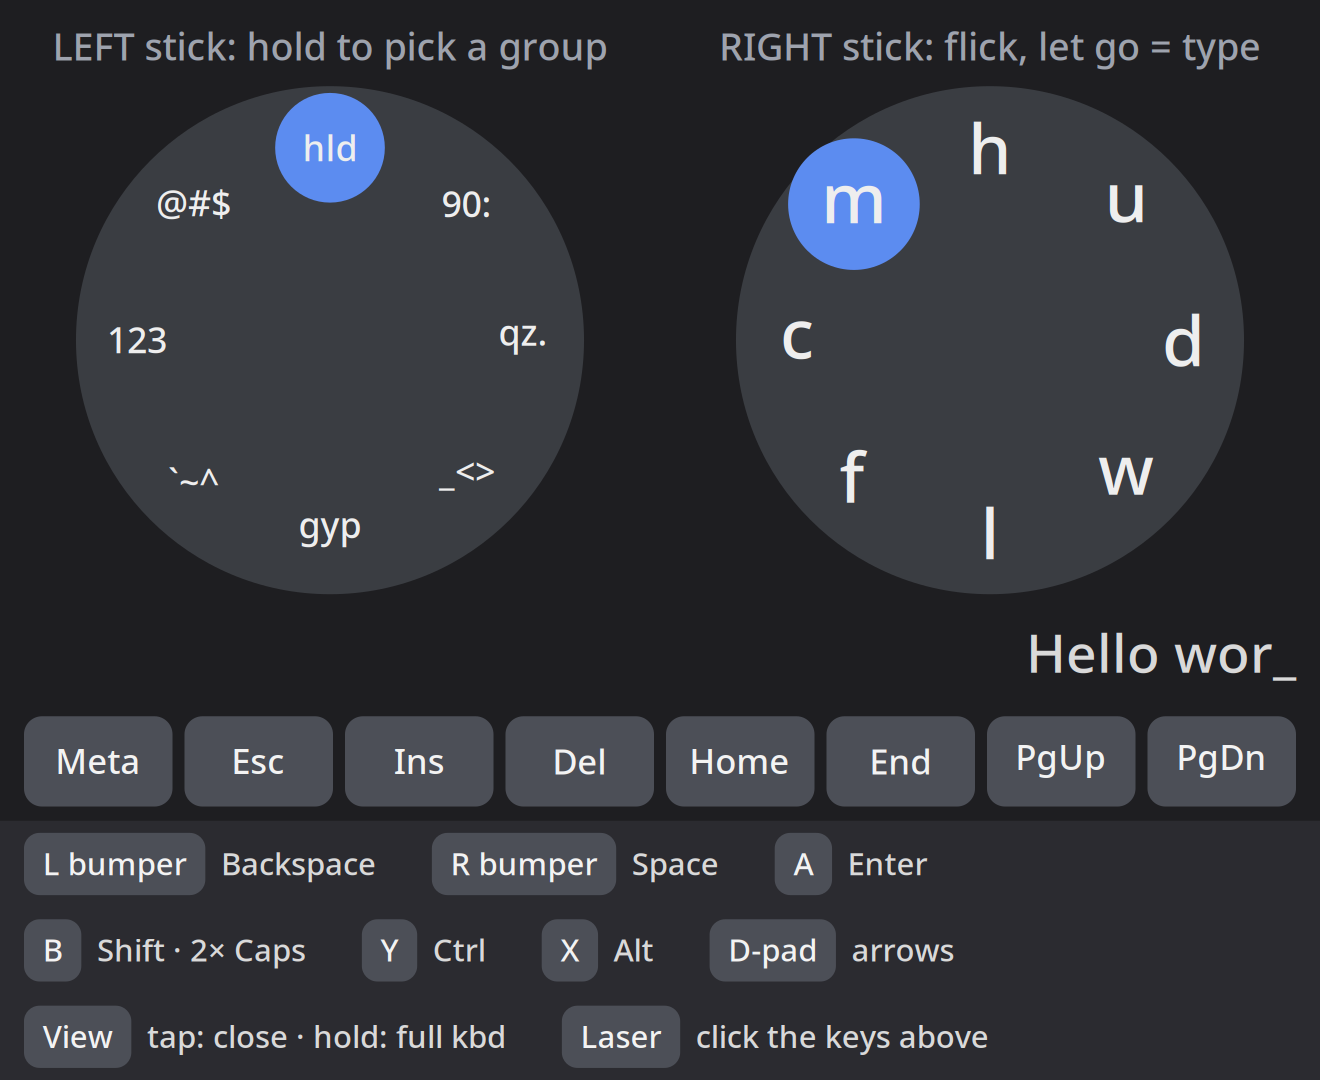
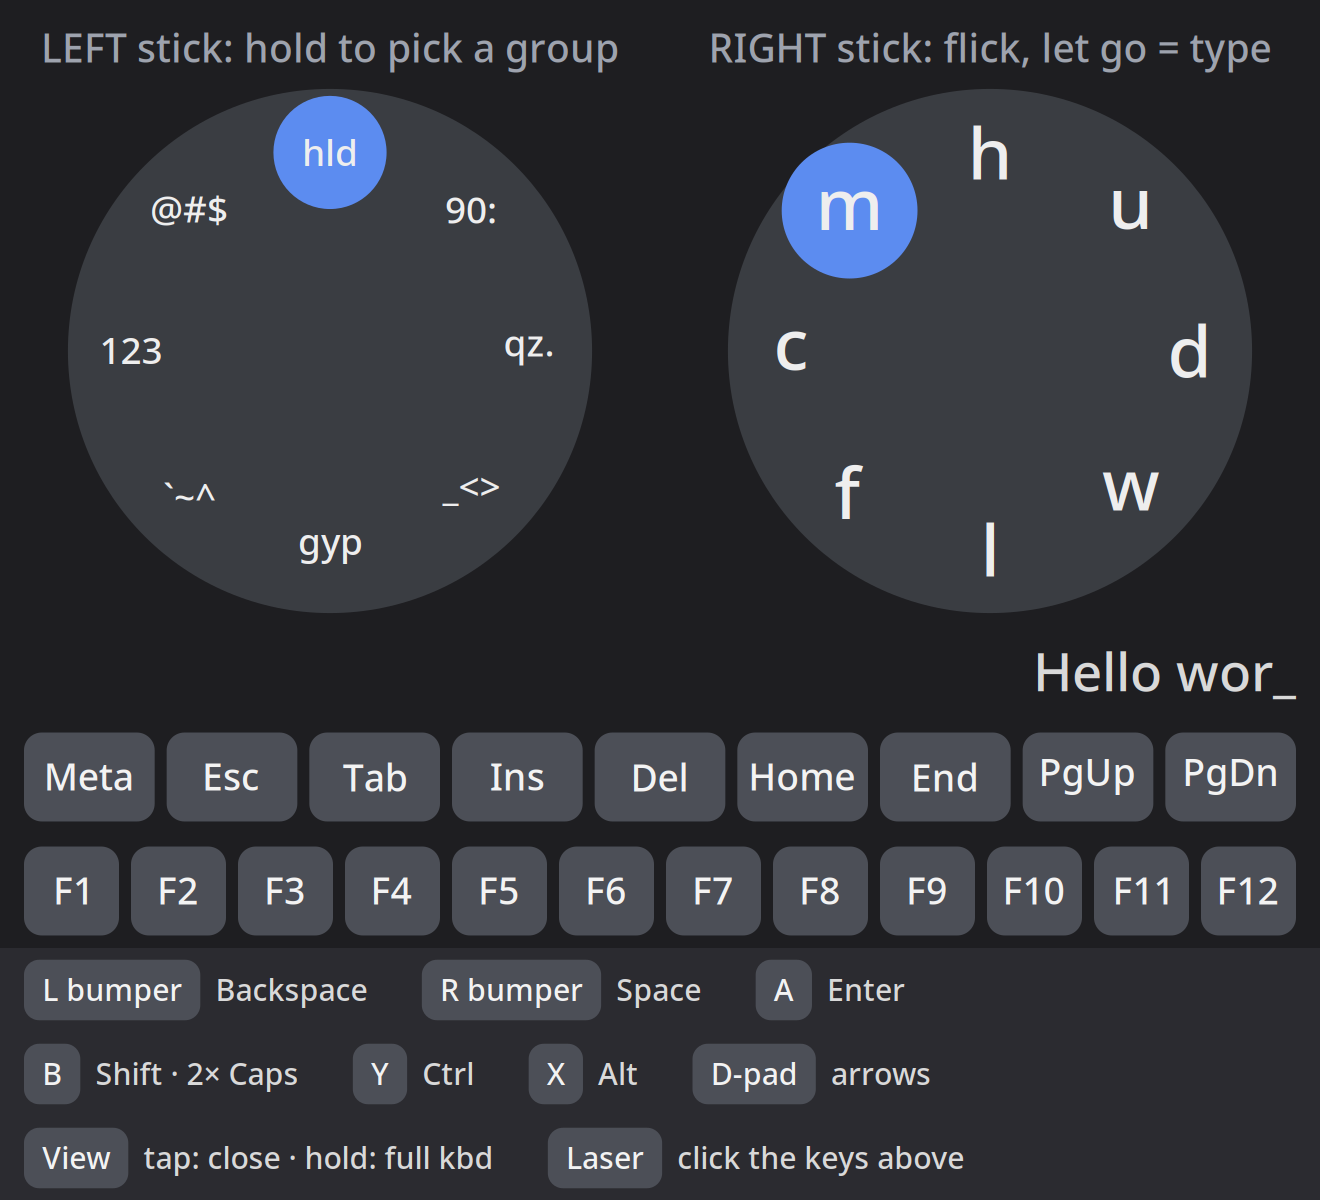
ft-chord: Tab and F1-F12 keys on the HUD
- Add a second row of laser-clickable keys, F1-F12, and put Tab in the
  first row. Latched Ctrl, Alt, Meta and Shift apply to them.
- Draw every key label at one size.
- Update the rebuild prompt (the new rows, and why placement is left to
  ft-floatd), the README and the screenshots.

diff --git a/README.md b/README.md
@@ -4,7 +4,7 @@ On-screen keyboards for typing on a Steam Frame's [Frametop](https://github.com/
 
 ![ft-chord HUD](images/ft-chord-typing.png)
 
-- **ft-chord**: a chord keyboard. Hold the left stick in a direction to pick a group of 8 characters, then flick the right stick and let go to type one. With the left stick centred, the right stick types the 8 most common letters (e t a o i n s r). Bumpers are Backspace and Space, A is Enter, B is Shift (twice for Caps), Y and X are Ctrl and Alt, and the left d-pad gives arrows. A row of keys on the HUD, clicked with the laser, has Meta, Esc, Ins, Del, Home, End, PgUp and PgDn. The legend on the HUD shows all of this. The sticks also scroll whatever the laser points at, so close the HUD (tap the left view button) when you want to scroll.
+- **ft-chord**: a chord keyboard. Hold the left stick in a direction to pick a group of 8 characters, then flick the right stick and let go to type one. With the left stick centred, the right stick types the 8 most common letters (e t a o i n s r). Bumpers are Backspace and Space, A is Enter, B is Shift (twice for Caps), Y and X are Ctrl and Alt, and the left d-pad gives arrows. Two rows of keys on the HUD, clicked with the laser, have Meta, Esc, Tab, Ins, Del, Home, End, PgUp, PgDn and F1-F12. The legend on the HUD shows all of this. The sticks also scroll whatever the laser points at, so close the HUD (tap the left view button) when you want to scroll.
 - **ft-keyboard**: a full 104-key keyboard (F-keys, navigation block, numpad) as a floating window.
 - **ft-chord --watch**: watches the left view button. A tap toggles ft-chord, and a hold toggles ft-keyboard.
 
